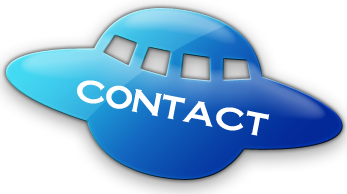
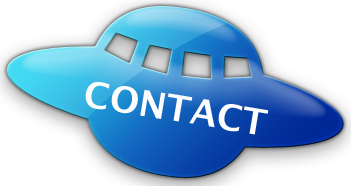
14th push. Made ufos consistent and styled them.

diff --git a/styles.css b/styles.css
@@ -58,6 +58,27 @@ body{
 	height: 62px;
 }
 
+.ufocon{
+	float: right;
+	margin-right: 29%;
+	margin-top: 0%;
+}
+
+.homeicon{
+	margin-top: 0%;
+	float: left;
+}
+
+.ufoabout, .ufopro{
+	margin-left: 47%;
+}
+
+.ufoprobod{
+	margin: 0 auto;
+	margin-top: 4%;
+	margin-left: 42%;
+}
+
 ul{
 	list-style-type: none;
 	margin: 0;
@@ -166,17 +187,6 @@ h2{
 
 #bground, #bkgrdfubar, #bkgrdcz, #bkgrdmoon{
 	background-color: #F08080;
-}
-
-.ufocon{
-	float: right;
-	margin-right: 29%;
-	margin-top: 0%;
-}
-
-.homeicon{
-	margin-top: 0%;
-	float: left;
 }
 
 #sidebar, #sideout{
@@ -363,12 +373,6 @@ span:hover{
 	margin-right: 5%;
 }
 
-.ufopro{
-	margin: 0 auto;
-	margin-top: 4%;
-	margin-left: 42%;
-}
-
 /*This is where the contact page is styled*/
 #background1{
 	background-image: url("images/John@Hunter.JPG");
@@ -407,7 +411,7 @@ span:hover{
 	color: black;
 }
 
-.blacken1{
+.blacken1, .blacken{
 	color: black;
 	font-size: large;
 	font-weight: bolder;
@@ -418,6 +422,13 @@ span:hover{
 	float: right;
 	margin-top: .5%;
 	margin-right: 30%;
+}
+
+.blacken{
+	margin: 0 auto;
+	float: left;
+	margin-top: .5%;
+	margin-left: 46%;
 }
 
 #footer{

diff --git a/cz.html b/cz.html
@@ -2,13 +2,14 @@
 <html lang="en">
 <head>
 	<meta charset="UTF-8">
-	<title>JohnLaGreco CZ</title>
+	<title>JohnLaGreco & CZ</title>
 	<link rel="stylesheet" type="text/css" href="styles.css">
 </head>
 <body id="bkgrdcz">
 	<nav id="aboutnav">
 		<ul>
-		<li><a href="index.html" class="homeicon"><img src="images/homecartoon.png" height="60"></a></li>	
+		<li><a href="index.html" class="homeicon"><img src="images/homecartoon.png" height="60"></a></li>
+		<li><a href="about.html" class="ufoabout"><img src="images/icon-ufo3.png" height="60"></a></li>	
 		<li><a href="contact.html" class="ufocon"><img src="images/icon-ufo2.png" height="60"></a></li>
 		</ul>
 	</nav>
@@ -21,7 +22,7 @@
 			<p class="sec8p3">Here is an example of the tenacious work that<br> I would tackle daily.</p>
 			<img src="images/before.jpg" height="300">
 			<img src="images/after.jpg" height="300">
-			<a href="projects.html"><img src="images/icon-ufo4.png" class="ufopro" Height="75" width="150"></a>
+			<a href="projects.html"><img src="images/icon-ufo4.png" class="ufoprobod" Height="75" width="150"></a>
 		</div>
 
 	</div>

diff --git a/fubar.html b/fubar.html
@@ -2,13 +2,14 @@
 <html lang="en">
 <head>
 	<meta charset="UTF-8">
-	<title>JohnLaGreco Fubar</title>
+	<title>JohnLaGreco & Fubar</title>
 	<link rel="stylesheet" type="text/css" href="styles.css">
 </head>
 <body id="bkgrdfubar">
 	<nav id="aboutnav">
 		<ul>
-		<li><a href="index.html" class="homeicon"><img src="images/homecartoon.png" height="60"></a></li>	
+		<li><a href="index.html" class="homeicon"><img src="images/homecartoon.png" height="60"></a></li>
+		<li><a href="about.html" class="ufoabout"><img src="images/icon-ufo3.png" height="60"></a></li>	
 		<li><a href="contact.html" class="ufocon"><img src="images/icon-ufo2.png" height="60"></a></li>
 		</ul>
 	</nav>
@@ -23,7 +24,7 @@
 			<p class="sec7p4">Work: In charge of mass media interviews and public relations.</p>
 		</div>
 
-		<a href="projects.html"><img src="images/icon-ufo4.png" class="ufopro" Height="75" width="150"></a>
+		<a href="projects.html"><img src="images/icon-ufo4.png" class="ufoprobod" Height="75" width="150"></a>
 	</div>
 
 	<script src="https://ajax.googleapis.com/ajax/libs/jquery/2.1.3/jquery.min.js"></script>

diff --git a/moon.html b/moon.html
@@ -2,13 +2,14 @@
 <html lang="en">
 <head>
 	<meta charset="UTF-8">
-	<title>JohnLaGreco Moon</title>
+	<title>JohnLaGreco & The Moon</title>
 	<link rel="stylesheet" type="text/css" href="styles.css">
 </head>
 <body id="bkgrdmoon">
 	<nav id="aboutnav">
 		<ul>
-		<li><a href="index.html" class="homeicon"><img src="images/homecartoon.png" height="60"></a></li>	
+		<li><a href="index.html" class="homeicon"><img src="images/homecartoon.png" height="60"></a></li>
+		<li><a href="about.html" class="ufoabout"><img src="images/icon-ufo3.png" height="60"></a></li>	
 		<li><a href="contact.html" class="ufocon"><img src="images/icon-ufo2.png" height="60"></a></li>
 		</ul>
 	</nav>
@@ -20,7 +21,7 @@
 			<p class="sec6p2">Work: Doorman promoted to Floor Manager</p>
 		</div>
 		
-		<a href="projects.html"><img src="images/icon-ufo4.png" class="ufopro" Height="75" width="150"></a>
+		<a href="projects.html"><img src="images/icon-ufo4.png" class="ufoprobod" Height="75" width="150"></a>
 	</div>
 
 	<script src="https://ajax.googleapis.com/ajax/libs/jquery/2.1.3/jquery.min.js"></script>

diff --git a/about.html b/about.html
@@ -1,0 +1,20 @@
+<!DOCTYPE html>
+<html lang="en">
+<head>
+	<meta charset="UTF-8">
+	<title>About JohnLaGreco</title>
+	<link rel="stylesheet" type="text/css" href="styles.css">
+</head>
+<body>
+	<nav id="aboutnav">
+		<ul>
+		<li><a href="index.html" class="homeicon"><img src="images/homecartoon.png" height="60"></a></li>
+		<li><a href="projects.html" class="ufopro"><img src="images/icon-ufo4.png" height="60"></a></li>	
+		<li><a href="contact.html" class="ufocon"><img src="images/icon-ufo2.png" height="60"></a></li>
+		</ul>
+	</nav>
+
+	<script src="https://ajax.googleapis.com/ajax/libs/jquery/2.1.3/jquery.min.js"></script>
+	<script type="text/javascript" src="script.js"></script>
+</body>
+</html>

diff --git a/projects.html b/projects.html
@@ -1,7 +1,7 @@
 <!DOCTYPE html>
 <html>
 <head>
-	<title>JohnLaGreco Projects</title>
+	<title>JohnLaGreco's Projects</title>
 	<link rel="stylesheet" type="text/css" href="styles.css">
 </head>
 <body id="bground">
@@ -26,6 +26,7 @@
 	<nav id="aboutnav">
 		<ul>
 		<li><a href="index.html" class="homeicon"><img src="images/homecartoon.png" height="60"></a></li>	
+		<li><a href="about.html" class="ufoabout"><img src="images/icon-ufo3.png" height="60"></a></li>
 		<li><a href="contact.html" class="ufocon"><img src="images/icon-ufo2.png" height="60"></a></li>
 		</ul>
 	</nav>

diff --git a/contact.html b/contact.html
@@ -1,13 +1,14 @@
 <!DOCTYPE html>
 <html>
 <head>
-	<title>JohnLaGreco Contact</title>
+	<title>Contact JohnLaGreco</title>
 	<link rel="stylesheet" type="text/css" href="styles.css">
 </head>
 <body id="background1">	
 	<nav id="contactnav">
 		<ul>	
 			<li><a href="index.html" class="homeicon"><img src="images/homecartoon.png" height="75"></a></li>
+			<li><a href="about.html" class="blacken">ABOUT</a></li>
 			<li><a href="projects.html" class="blacken1">PROJECTS</a></li>
 		</ul>
 	</nav>
